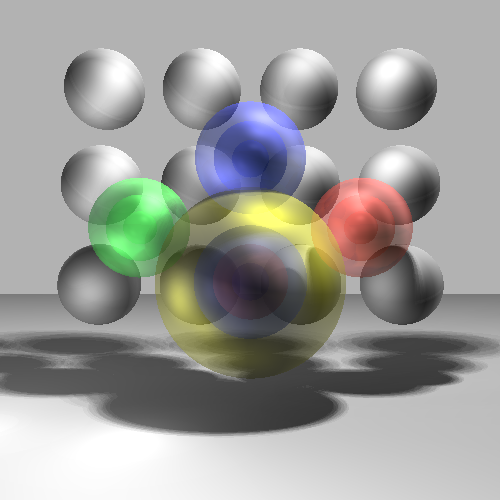
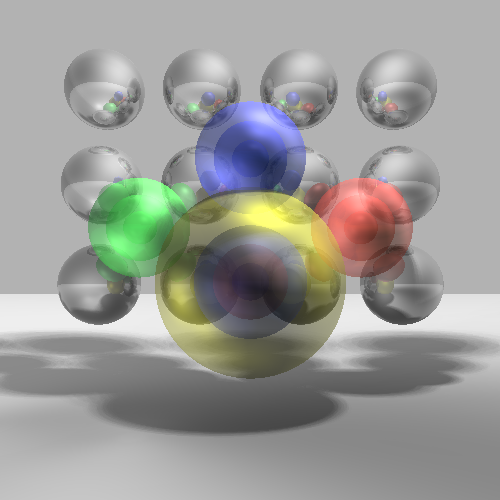
Fixed transparency

diff --git a/utils.py b/utils.py
@@ -29,33 +29,22 @@ def render_img(scene, camera_ray_origins, camera_ray_directions):
 
     return img
 
-def find_intersection(scene, ray_origins, ray_directions, excluded_objects=None):
+def find_intersection(scene, ray_origins, ray_directions, excluded_objects=[]):
     min_t = np.full(ray_origins.shape[0], np.inf, dtype=float)
     nearest_objects = np.full(ray_origins.shape[0], -1, dtype=int)
 
-    if excluded_objects is not None:
-        for idx, entity in enumerate(scene.objects):
-            t, mask_inter = entity.intersection(ray_origins, ray_directions)
+    for idx, entity in enumerate(scene.objects):
+        t, mask_inter = entity.intersection(ray_origins, ray_directions)
 
-            for curr_exclude_object in excluded_objects:
-                mask_inter = np.logical_and(mask_inter, curr_exclude_object != idx)
+        for curr_exclude_object in excluded_objects:
+            mask_inter = np.logical_and(mask_inter, curr_exclude_object != idx)
 
-            new_t = np.copy(min_t)
-            new_t[mask_inter] = np.minimum(new_t[mask_inter], t[mask_inter])
-            changes = (new_t != min_t)
+        new_t = np.copy(min_t)
+        new_t[mask_inter] = np.minimum(new_t[mask_inter], t[mask_inter])
+        changes = (new_t != min_t)
 
-            nearest_objects[changes] = idx
-            min_t = new_t
-    else:
-        for idx, entity in enumerate(scene.objects):
-            t, mask_inter = entity.intersection(ray_origins, ray_directions)
-
-            new_t = np.copy(min_t)
-            new_t[mask_inter] = np.minimum(new_t[mask_inter], t[mask_inter])
-            changes = (new_t != min_t)
-
-            nearest_objects[changes] = idx
-            min_t = new_t
+        nearest_objects[changes] = idx
+        min_t = new_t
 
     return min_t, nearest_objects
 
@@ -92,8 +81,7 @@ def find_color(scene, t, nearest_objects, source_ray_origins, source_ray_directi
     # Reflection
     reflection_colors = np.full_like(diff_spec_colors, scene.settings.background_color, dtype=float)
 
-    if recursion_count < scene.settings.max_recursion and len(excluded_objects) <= 1:
-
+    if recursion_count < scene.settings.max_recursion:
         ref_directions = source_ray_directions - 2 * vector_dot(source_ray_directions, normals) * normals
         ref_t, ref_nearest_objects = find_intersection(scene, inter_points, ref_directions)
         mask_ref_inter = ref_nearest_objects >= 0
@@ -110,17 +98,13 @@ def find_color(scene, t, nearest_objects, source_ray_origins, source_ray_directi
     # Transperency
     transparecy_colors = np.full_like(diff_spec_colors, scene.settings.background_color, dtype=float)
 
-    if len(excluded_objects) > 0:
+    if recursion_count == 1:
         trans_t, trans_nearest_objects = find_intersection(scene,
                                                            source_ray_origins,
                                                            source_ray_directions,
                                                            excluded_objects=excluded_objects)
         mask_trans_inter = trans_nearest_objects >= 0
-
-        new_excluded = [trans_nearest_objects[mask_trans_inter]]
-
-        for curr_exclude in excluded_objects:
-            new_excluded.append(curr_exclude[mask_trans_inter])
+        new_excluded = [x[mask_trans_inter] for x in excluded_objects + [trans_nearest_objects]]
 
         if mask_trans_inter.any():
             transparecy_colors[mask_trans_inter] = find_color(scene,
@@ -128,6 +112,7 @@ def find_color(scene, t, nearest_objects, source_ray_origins, source_ray_directi
                                                               trans_nearest_objects[mask_trans_inter],
                                                               source_ray_origins[mask_trans_inter],
                                                               source_ray_directions[mask_trans_inter],
+                                                              recursion_count=recursion_count,
                                                               excluded_objects=new_excluded)
 
     colors = (np.expand_dims(transparencies, -1) * transparecy_colors) + \
